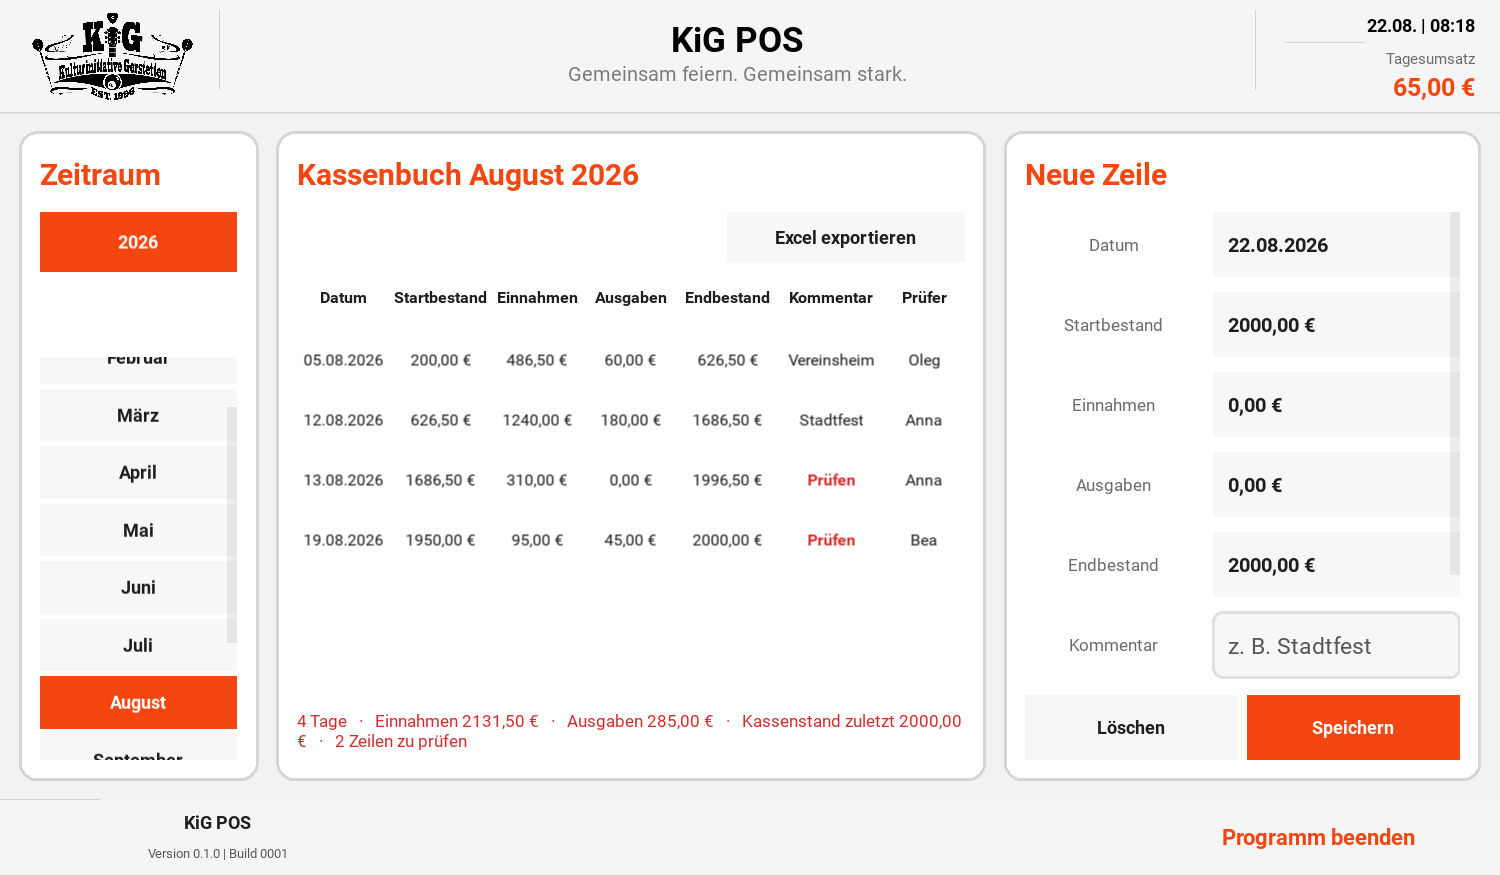
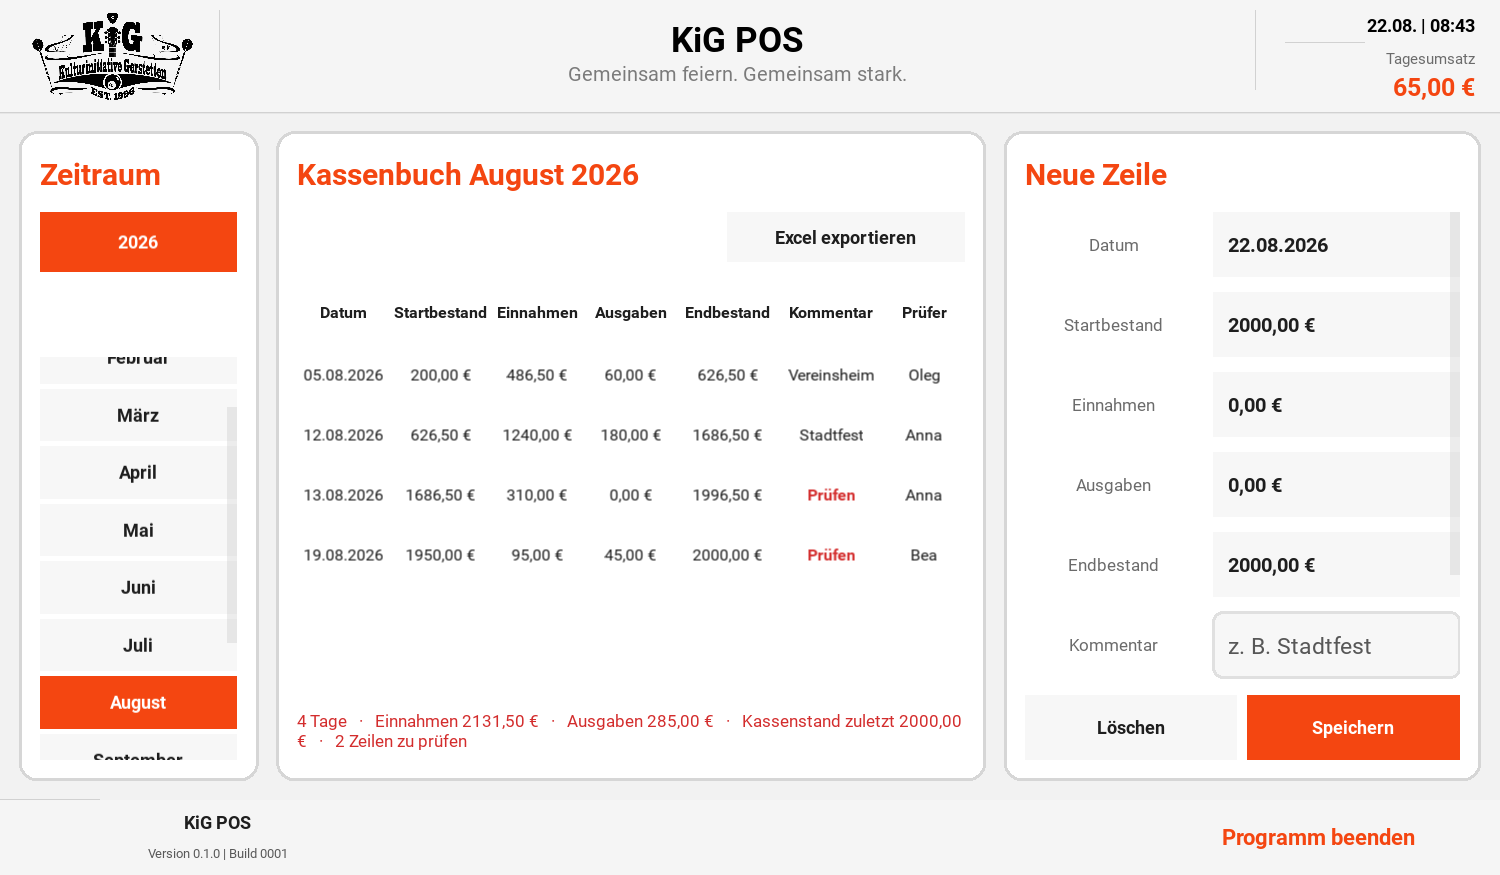
Exporthinweis nennt den Ordner mit
Bisher stand nach einem Export nur der Dateiname da - und damit die
Anschlussfrage, wo die Datei denn nun liegt. Auf dem Tablet ist das
keine rhetorische Frage.

Der Hinweis nennt jetzt beides: die Datei in der ersten Zeile, den
Ordner darunter. Zwei Zeilen, weil ein vollstaendiger Pfad neben dem
Export-Knopf keinen Platz hat; in Statistik und Kassenbuch ist der
Hinweis dafuer unter die Knopfzeile gewandert und bekommt die ganze
Breite. Die Hinweisfelder wachsen mit ihren Zeilen, damit der Ordner
nicht unter dem Rand verschwindet.

Betrifft alle fuenf Ausgaben: Statistik, Kassenbuch, Checkliste,
Einkaufsliste und Handbuch-PDF.

diff --git a/widgets/userguide/content.py b/widgets/userguide/content.py
@@ -119,6 +119,8 @@ TOPICS = [
                     "rechts speicherst du das komplette Handbuch mit "
                     "allen Screenshots als PDF-Datei - praktisch zum "
                     "Ausdrucken oder Weitergeben an neue Helfer.\n\n"
+                    "Nach dem Export steht unter dem Knopf, wie die Datei "
+                    "heißt und in welchem Ordner sie liegt.\n\n"
                     "Den PDF-Export gibt es nur in der Windows-Fassung; "
                     "auf dem Telefon ist der Knopf gesperrt. Das "
                     "Handbuch selbst kannst du dort natürlich trotzdem "
@@ -392,7 +394,9 @@ TOPICS = [
                     "mit eingetragener Bestellmenge in eine CSV-Datei "
                     "(Kategorie, Artikel, Menge). Sie landet im Ordner "
                     "exports/csv des Programmverzeichnisses und lässt "
-                    "sich mit Excel öffnen oder direkt verschicken."
+                    "sich mit Excel öffnen oder direkt verschicken.\n\n"
+                    "Nach dem Export steht unter dem Knopf, wie die Datei "
+                    "heißt und in welchem Ordner sie liegt."
                 ),
             },
             {
@@ -700,7 +704,9 @@ TOPICS = [
                     "auffälligen Zeilen den Grund im Klartext. Auf "
                     "Papier hilft ein rotes \"Prüfen\" ohne Erklärung "
                     "niemandem weiter - der Kassenprüfer sieht so "
-                    "sofort, woran es liegt."
+                    "sofort, woran es liegt.\n\n"
+                    "Nach dem Export steht unter dem Knopf, wie die Datei "
+                    "heißt und in welchem Ordner sie liegt."
                 ),
             },
             {
@@ -795,7 +801,9 @@ TOPICS = [
                     "Ausdrucken. So kann die Liste am Stand hängen, ohne "
                     "dass jemand das Tablet mit sich herumträgt - "
                     "erledigte Punkte sind dort mit einem x "
-                    "gekennzeichnet."
+                    "gekennzeichnet.\n\n"
+                    "Nach dem Export steht unter dem Knopf, wie die Datei "
+                    "heißt und in welchem Ordner sie liegt."
                 ),
             },
         ],
@@ -884,7 +892,9 @@ TOPICS = [
                     "Verkaufspositionen und ein Blatt mit der "
                     "Zusammenfassung inklusive Diagrammen. Die Datei "
                     "landet im Ordner exports/excel des "
-                    "Programmverzeichnisses."
+                    "Programmverzeichnisses.\n\n"
+                    "Nach dem Export steht unter dem Knopf, wie die Datei "
+                    "heißt und in welchem Ordner sie liegt."
                 ),
             },
             {

diff --git a/screens/cash_book_screen.py b/screens/cash_book_screen.py
@@ -43,12 +43,16 @@ from kivy.uix.button import Button
 from kivy.uix.label import Label
 from kivy.uix.scrollview import ScrollView
 from kivy.uix.screenmanager import Screen
+from kivy.uix.widget import Widget
 
 import config
 import storage
 import theme
 
 from database import DatabaseManager
+from widgets.common.exporthinweis import (
+    export_hinweis, hinweisfeld_vorbereiten,
+)
 from widgets.common.feldausrichtung import links_ausrichten
 from widgets.common.confirm_popup import ConfirmPopup
 from widgets.common.date_picker_popup import DatePickerPopup
@@ -368,14 +372,7 @@ class CashBookScreen(Screen):
             size_hint_y=None, height=dp(40), spacing=dp(theme.ROW_SPACING)
         )
 
-        self.export_status = Label(
-            text="", color=theme.TEXT_SECONDARY, font_size="13sp",
-            halign="left", valign="middle",
-        )
-        self.export_status.bind(
-            size=lambda instance, value: setattr(instance, "text_size", value)
-        )
-        aktionen.add_widget(self.export_status)
+        aktionen.add_widget(Widget())
 
         export_knopf = self._action_button(
             "Excel exportieren", self.export_excel
@@ -385,6 +382,18 @@ class CashBookScreen(Screen):
         aktionen.add_widget(export_knopf)
 
         panel.add_widget(aktionen)
+
+        # Der Hinweis steht unter der Zeile und nicht daneben: Er nennt
+        # den Ordner mit, und ein vollständiger Pfad braucht die ganze
+        # Breite (siehe widgets/common/exporthinweis.py).
+        self.export_status = Label(
+            text="", color=theme.TEXT_SECONDARY, font_size="13sp",
+            halign="left", valign="middle",
+        )
+
+        hinweisfeld_vorbereiten(self.export_status, 0)
+
+        panel.add_widget(self.export_status)
 
         header = BoxLayout(size_hint_y=None, height=dp(32), spacing=0)
 
@@ -1023,7 +1032,7 @@ class CashBookScreen(Screen):
 
         workbook.save(ziel)
 
-        self.export_status.text = f"Export erstellt: {ziel.name}"
+        self.export_status.text = export_hinweis(ziel)
 
     # =====================================================
     # Speichern und löschen

diff --git a/screens/statistics_screen.py b/screens/statistics_screen.py
@@ -21,6 +21,9 @@ from database import DatabaseManager
 from widgets.common.kig_popup import KiGPopup
 from widgets.common.kig_symbol import KiGSymbolButton, KREUZ
 from widgets.common.date_picker_popup import DatePickerPopup
+from widgets.common.exporthinweis import (
+    export_hinweis, hinweisfeld_vorbereiten,
+)
 from widgets.common.feldausrichtung import links_ausrichten
 from widgets.common.rounded_panel import RoundedPanel
 from widgets.kig_label import KiGLabel
@@ -175,16 +178,21 @@ class StatisticsScreen(Screen):
         panel.add_widget(filters)
 
         actions_top = BoxLayout(size_hint_y=None, height=dp(40), spacing=dp(theme.ROW_SPACING))
+        actions_top.add_widget(Widget())
+        actions_top.add_widget(self._button("Excel exportieren", self.export_excel, width=dp(170)))
+        panel.add_widget(actions_top)
+
+        # Eigene Zeile unter den Knoepfen: Der Hinweis nennt den Ordner
+        # mit, und ein vollstaendiger Pfad braucht die ganze Breite
+        # (siehe widgets/common/exporthinweis.py).
         self.export_status = Label(
             text="", color=theme.TEXT_SECONDARY, font_size="13sp",
             halign="left", valign="middle",
         )
-        self.export_status.bind(
-            size=lambda instance, value: setattr(instance, "text_size", value)
-        )
-        actions_top.add_widget(self.export_status)
-        actions_top.add_widget(self._button("Excel exportieren", self.export_excel, width=dp(170)))
-        panel.add_widget(actions_top)
+
+        hinweisfeld_vorbereiten(self.export_status, 0)
+
+        panel.add_widget(self.export_status)
 
         panel.add_widget(self._build_repair_hint())
 
@@ -758,7 +766,7 @@ class StatisticsScreen(Screen):
         export_path = storage.export_dir("excel") / filename
         workbook.save(export_path)
 
-        self.export_status.text = f"Export erstellt: {export_path.name}"
+        self.export_status.text = export_hinweis(export_path)
 
     def delete_selected(self):
         if not self.selected_rows:

diff --git a/widgets/common/exporthinweis.py b/widgets/common/exporthinweis.py
@@ -1,0 +1,63 @@
+"""
+=========================================================
+KiG POS
+=========================================================
+
+Datei:
+    widgets/common/exporthinweis.py
+
+Beschreibung:
+    Rückmeldung nach einem Export.
+
+    Bisher stand dort nur der Dateiname - und damit die
+    Anschlussfrage: "Und wo liegt die jetzt?" Auf dem Tablet
+    ist das keine rhetorische Frage, dort führt kein Weg am
+    Ordner vorbei.
+
+    Deshalb nennt der Hinweis beides: den Dateinamen in der
+    ersten Zeile, den Ordner darunter. Zwei Zeilen, weil ein
+    vollständiger Pfad in einer Zeile neben dem Export-Knopf
+    keinen Platz hat.
+
+    hinweisfeld_vorbereiten() lässt das Textfeld mitwachsen,
+    damit die zweite Zeile nicht unter dem Rand verschwindet.
+
+Version:
+    1.0.0
+=========================================================
+"""
+
+from pathlib import Path
+
+
+def export_hinweis(pfad, was="Export erstellt"):
+    """Zweizeilige Rückmeldung: Datei, darunter der Ordner."""
+
+    pfad = Path(pfad)
+
+    return f"{was}: {pfad.name}\nOrdner: {pfad.parent}"
+
+
+def hinweisfeld_vorbereiten(label, mindesthoehe):
+    """Lässt ein Hinweisfeld mit der Anzahl seiner Zeilen wachsen.
+
+    Der übliche Weg (text_size = size) schneidet alles ab, was nicht
+    in die eingestellte Höhe passt - bei einem zweizeiligen Hinweis
+    also den Ordner. Hier wird stattdessen nur die Breite vorgegeben;
+    die Höhe ergibt sich aus dem umbrochenen Text.
+    """
+
+    label.size_hint_y = None
+    label.height = mindesthoehe
+
+    def breite_uebernehmen(instanz, breite):
+        instanz.text_size = (breite, None)
+
+    def hoehe_anpassen(instanz, groesse):
+        instanz.height = max(mindesthoehe, groesse[1])
+
+    label.bind(width=breite_uebernehmen, texture_size=hoehe_anpassen)
+
+    breite_uebernehmen(label, label.width)
+
+    return label

diff --git a/screens/checklist_screen.py b/screens/checklist_screen.py
@@ -37,6 +37,10 @@ import config
 import storage
 import theme
 
+from widgets.common.exporthinweis import (
+    export_hinweis, hinweisfeld_vorbereiten,
+)
+
 from database import DatabaseManager
 from widgets.checklists.checklist_item_row import ChecklistItemRow
 from widgets.common.confirm_popup import ConfirmPopup
@@ -214,12 +218,12 @@ class ChecklistScreen(Screen):
 
         self.status_label = Label(
             text="", color=theme.TEXT_SECONDARY, font_size="13sp",
-            size_hint_y=None, height=dp(24),
             halign="left", valign="middle",
         )
-        self.status_label.bind(
-            size=lambda instance, value: setattr(instance, "text_size", value)
-        )
+
+        # Waechst mit: Nach einem Export steht hier zusaetzlich der
+        # Ordner (siehe widgets/common/exporthinweis.py).
+        hinweisfeld_vorbereiten(self.status_label, dp(24))
         panel.add_widget(self.status_label)
 
         # Kopfzeile über den Spalten - ohne sie ist nicht zu erraten,
@@ -613,7 +617,7 @@ class ChecklistScreen(Screen):
 
         workbook.save(ziel)
 
-        self.status_label.text = f"Export erstellt: {ziel.name}"
+        self.status_label.text = export_hinweis(ziel)
         self.status_label.color = theme.TEXT_SECONDARY
 
     # =====================================================

diff --git a/widgets/products/article_list_panel.py b/widgets/products/article_list_panel.py
@@ -8,6 +8,8 @@ from kivy.uix.scrollview import ScrollView
 
 import theme
 
+from widgets.common.exporthinweis import hinweisfeld_vorbereiten
+
 from widgets.common.rounded_panel import RoundedPanel
 from widgets.kig_label import KiGLabel
 from widgets.products.article_list_row import ArticleListRow
@@ -137,12 +139,13 @@ class ArticleListPanel(RoundedPanel):
         self._update_header()
 
         self.export_status = Label(
-            text="", color=theme.TEXT_SECONDARY, font_size="12sp", size_hint_y=None,
-            height=dp(18), halign="right", valign="middle",
+            text="", color=theme.TEXT_SECONDARY, font_size="12sp",
+            halign="right", valign="middle",
         )
-        self.export_status.bind(
-            size=lambda instance, value: setattr(instance, "text_size", value)
-        )
+
+        # Waechst mit: Nach einem Export steht hier zusaetzlich der
+        # Ordner (siehe widgets/common/exporthinweis.py).
+        hinweisfeld_vorbereiten(self.export_status, dp(18))
         self.add_widget(self.export_status)
 
         # -------------------------------------------------

diff --git a/screens/userguide_screen.py b/screens/userguide_screen.py
@@ -26,6 +26,8 @@ from kivy.uix.screenmanager import Screen
 
 import theme
 
+from widgets.common.exporthinweis import export_hinweis
+
 from widgets.userguide.content import TOPICS
 from widgets.userguide.userguide_topic_panel import UserguideTopicPanel
 from widgets.userguide.userguide_content_panel import UserguideContentPanel
@@ -123,6 +125,8 @@ class UserguideScreen(Screen):
         except Exception as error:
             self.topic_panel.set_export_status(f"Export fehlgeschlagen: {error}")
         else:
-            self.topic_panel.set_export_status(f"Gespeichert: {path.name}")
+            self.topic_panel.set_export_status(
+                export_hinweis(path, was="Gespeichert")
+            )
         finally:
             self.topic_panel.set_export_busy(False)

diff --git a/screens/products_screen.py b/screens/products_screen.py
@@ -36,7 +36,10 @@ from kivy.uix.screenmanager import Screen
 import config
 import storage
 import theme
+
 import units
+
+from widgets.common.exporthinweis import export_hinweis
 
 from database import DatabaseManager
 
@@ -350,7 +353,7 @@ class ProductsScreen(Screen):
                     item["quantity"],
                 ])
 
-        self.article_list_panel.set_export_status(f"Export erstellt: {export_path.name}")
+        self.article_list_panel.set_export_status(export_hinweis(export_path))
 
     # =====================================================
     # Liste <-> Dashboard

diff --git a/widgets/userguide/userguide_topic_panel.py b/widgets/userguide/userguide_topic_panel.py
@@ -131,7 +131,7 @@ class UserguideTopicPanel(RoundedPanel):
         blendet die Zeile wieder aus)."""
 
         self.status_label.text = text
-        self.status_label.height = dp(34) if text else 0
+        self.status_label.height = dp(52) if text else 0
 
     def set_export_available(self, verfuegbar):
         """Sperrt den Export, wenn er auf diesem Gerät nicht geht.
